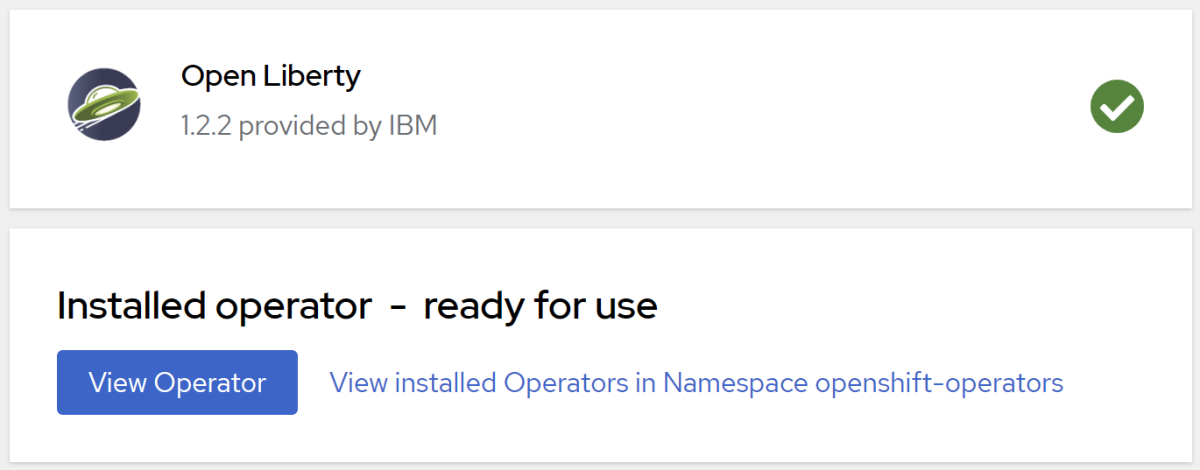
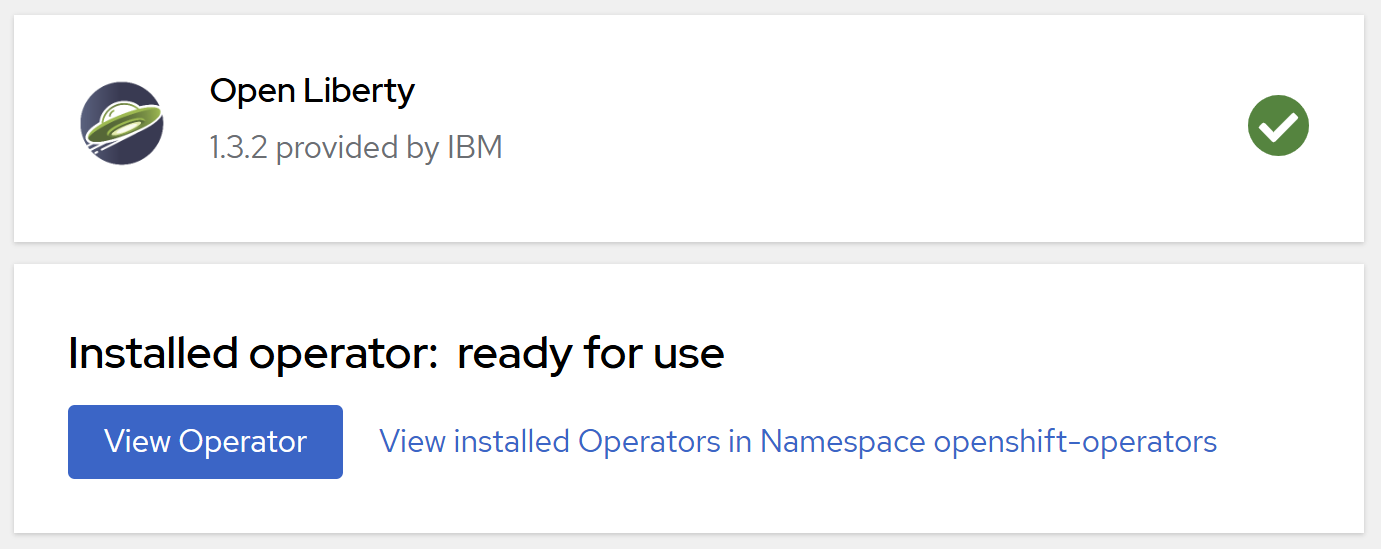
resolve review feedback from PM reza

diff --git a/articles/java/ee/liberty-on-aro.md b/articles/java/ee/liberty-on-aro.md
@@ -38,10 +38,9 @@ Complete the following prerequisites to successfully use this guide:
 
 1. Prepare a local machine with Unix-like operating system installed (for example, Ubuntu, macOS, or Windows Subsystem for Linux).
 1. Install a Java Standard Edition (SE) implementation, version 17 or later (for example, [Eclipse Open J9](https://www.eclipse.org/openj9/)).
-1. Install [Maven](https://maven.apache.org/download.cgi) 3.5.0 or higher.
+1. Install [Maven](https://maven.apache.org/download.cgi) 3.9.8 or higher.
 1. Install [Docker](https://docs.docker.com/get-docker/) for your OS.
-1. Install [Azure CLI](/cli/azure/install-azure-cli) 2.0.75 or later.
-1. Install [`envsubst`](https://command-not-found.com/envsubst) if needed.
+1. Install [Azure CLI](/cli/azure/install-azure-cli) 2.61.0 or later.
 1. Clone the code for this sample on your local system. The sample is on [GitHub](https://github.com/Azure-Samples/open-liberty-on-aro).
 1. Follow the instructions in [Create an Azure Red Hat OpenShift 4 cluster](/azure/openshift/tutorial-create-cluster).
 
@@ -68,7 +67,7 @@ After creating and connecting to the cluster, use the following steps to install
 1. Navigate to **Operators** > **OperatorHub** and search for **Open Liberty**.
 1. Select **Open Liberty** from the search results.
 1. Select **Install**.
-1. In the page **Install Operator**, check **v1.3** for **Update channel**, **All namespaces on the cluster (default)** for **Installation mode**, and **Automatic** for **Update approval**:
+1. In the page **Install Operator**, select the latest channel **v1.3** for **Update channel**, **All namespaces on the cluster (default)** for **Installation mode**, and **Automatic** for **Update approval**:
 
    :::image type="content" source="media/liberty-on-aro/install-operator.png" alt-text="Screenshot of creating operator subscription for Open Liberty Operator." lightbox="media/liberty-on-aro/install-operator.png":::
 
@@ -76,6 +75,9 @@ After creating and connecting to the cluster, use the following steps to install
 1. Observe that the Open Liberty Operator is successfully installed and ready for use. If it isn't ready, diagnose and resolve the problem before continuing.
 
    :::image type="content" source="media/liberty-on-aro/open-liberty-operator-installed.png" alt-text="Installed Operators showing Open Liberty is installed." lightbox="media/liberty-on-aro/open-liberty-operator-installed.png":::
+
+> [!NOTE]
+> This guides installs the Open Liberty Operator to manage Liberty applications on the Azure Red Hat OpenShift cluster. If you want to use the WebSphere Liberty Operator, follow the steps in [Installing the WebSphere Liberty operator](https://www.ibm.com/docs/was-liberty/nd?topic=operator-installing-websphere-liberty) to install the WebSphere Liberty Operator on the cluster.
 
 ### Create an OpenShift namespace for the Java app
 
@@ -87,28 +89,47 @@ Use the following steps to create an OpenShift namespace for use with your app:
 
    :::image type="content" source="media/liberty-on-aro/create-namespace.png" alt-text="Screenshot of creating namespace." lightbox="media/liberty-on-aro/create-namespace.png":::
 
-### Create an Azure Database for MySQL
+### Create an Azure Database for MySQL Flexible Server
 
-Use the following steps to set up an Azure Database for MySQL for use with your app:
+Azure Database for MySQL Flexible Server deployment model is a deployment mode designed to provide more granular control and flexibility over database management functions and configuration settings than the Azure Database for MySQL single server deployment mode. This section shows you how to create an Azure Database for MySQL Flexible Server instance using the Azure CLI. For more information, see [Quickstart: Create an instance of Azure Database for MySQL - Flexible Server by using the Azure CLI](/azure/mysql/flexible-server/quickstart-create-server-cli).
 
-1. Create an Azure Database for MySQL flexible server by following the steps in: [Quickstart: Use the Azure portal to create an Azure Database for MySQL - Flexible Server](/azure/mysql/flexible-server/quickstart-create-server-portal). You can deploy the database to the same resource group as the OpenShift cluster. Return to this document after creating the database.
+Replace placeholders `<Server name>`, `<Resource group of the OpenShift cluster>`, `<Server admin username>`, `<Server admin password>` and `<Database name>` in the following commands with your own values, and run the commands in your terminal to create an Azure Database for MySQL Flexible Server instance.
 
-   > [!NOTE]
-   > At the **Basics** step, save aside the ***Server name**.mysql.database.azure.com*, **Admin username**, and **Password** values.
+```azurecli
+az mysql flexible-server create \
+    --name <Server name> \
+    --resource-group <Resource group of the OpenShift cluster> \
+    --admin-user <Server admin username> \
+    --admin-password '<Server admin password>' \
+    --database-name <Database name> \
+    --public-access 0.0.0.0 \
+    --yes
+```
 
-1. After your database is created, open **your database** > **Settings** > **Networking**, then use the following steps:
+> [!NOTE]
+> If you receive an error message **No available SKUs in this location**, you need to specify a different location using the `--location` parameter and try again. Use the following command to list available SKUs in a specific location:
+>
+> ```azurecli
+> az mysql flexible-server list-skus --location <Location>
+> ```
 
-   1. Under **Public access**, ensure that **Allow public access to this resource through the internet using a public IP address** is selected.
-   1. Select **Allow public access from any Azure service within Azure to this server**.
-   1. Ensure that your client IPv4 address is in the allowlist of **Firewall rules**.
-   1. Save your changes.
+It takes a few minutes to create the server, database, admin user, and firewall rule that accepts connections from all Azure resources. If the command is successful, the output looks similar to the following example:
 
-   :::image type="content" source="media/liberty-on-aro/configure-mysql-database-networking.png" alt-text="Screenshot of configuring mysql database networking." lightbox="media/liberty-on-aro/configure-mysql-database-networking.png":::
-
-1. Open **your database** > **Settings** > **Databases** > Select **Add**. Fill in a value for **Name** and select **Save** to create a new database. This database has **Scheme type** as **User** and is used for the application later.
-
-   > [!NOTE]
-   > Save aside the **Name** for the database you created.
+```output
+{
+  "connectionString": "mysql <Database name> --host <Server name>.mysql.database.azure.com --user <Server admin username> --password=<Server admin password>",
+  "databaseName": "<Database name>",
+  "firewallName": "AllowAllAzureServicesAndResourcesWithinAzureIps_2024-7-10_16-22-8",
+  "host": "<Server name>.mysql.database.azure.com",
+  "id": "/subscriptions/REDACTED/resourceGroups/<Resource group of the OpenShift cluster>/providers/Microsoft.DBforMySQL/flexibleServers/<Server name>",
+  "location": "West US",
+  "password": "<Server admin password>",
+  "resourceGroup": "<Resource group of the OpenShift cluster>",
+  "skuname": "Standard_B1ms",
+  "username": "<Server admin username>",
+  "version": "5.7"
+}
+```
 
 ## Prepare the Liberty application
 
@@ -157,7 +178,7 @@ In the *liberty/config* directory, the *server.xml* is used to configure the dat
 
 #### Build project
 
-Now that you gathered the necessary properties, use the following commands to build the application. The POM file for the project reads many properties from the environment.
+Now that you gathered the necessary properties, replace the placeholders in the following commands with your own values and run the commands in your terminal to build the project. The POM file for the project reads many properties from the environment.
 
 ```bash
 cd <path-to-your-repo>/open-liberty-on-aro/3-integration/connect-db/mysql
@@ -167,13 +188,19 @@ export DB_SERVER_NAME=<Server name>.mysql.database.azure.com
 export DB_PORT_NUMBER=3306
 export DB_NAME=<Database name>
 export DB_USER=<Server admin username>
-export DB_PASSWORD=<Server admin password>
+export DB_PASSWORD='<Server admin password>'
 export NAMESPACE=open-liberty-demo
 
 mvn clean install
 ```
 
-#### Test your application locally
+#### (Optional) Test your application locally
+
+Optionally, you can run the application locally to verify that it works as expected. First, you need to add a firewall rule to allow your local machine to connect to the Azure Database for MySQL Flexible Server instance. Use the following instructions to add the firewall rule:
+
+1. Open the Azure portal and navigate to the Azure Database for MySQL Flexible Server instance you created earlier.
+1. In the left pane, select **Networking**.
+1. Select **Add current client IP address**. Select **Save** and wait for the firewall rule to be added.
 
 Use the following steps to run the `liberty:devc` command to locally run and test the project and container image before dealing with any Azure complexity. For more information on `liberty:devc`, see the [Liberty Plugin documentation](https://github.com/OpenLiberty/ci.maven/blob/main/docs/dev.md#devc-container-mode).
 
